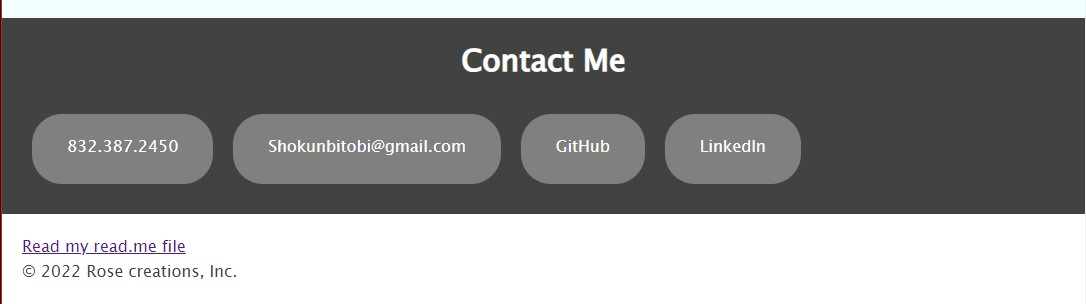
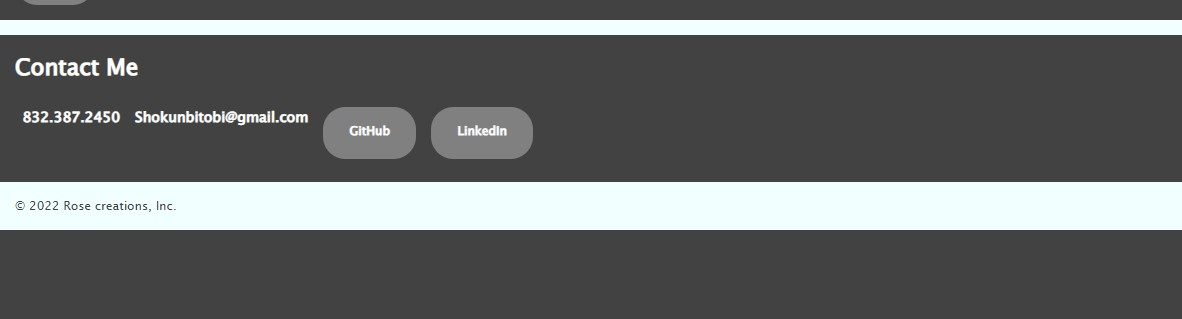
finished read me file and css

diff --git a/assets/CSS/style.css b/assets/CSS/style.css
@@ -10,9 +10,10 @@ font-family: 'Lucida Sans', 'Lucida Sans Regular', 'Lucida Grande', 'Lucida Sans
     --secondary: rgb(66, 66, 66);
     --tiertiary: grey;
     --fourth: white; 
+    --fifth: azure;
 }
 body {
-    background-color: azure;
+    background-color: var(--fifth);
     margin: 0;
 }
 /*header and nav style start here*/
@@ -20,7 +21,7 @@ header {
     display: flex;
     flex-grow:unset;
     background-color: rgb(70, 70, 70);
-    padding: 20px 15px;
+    padding: 20px 15px 15px 15px;
     justify-content: space-between;
     align-items: center;
     padding: 10px 50px;
@@ -38,7 +39,7 @@ nav ul li {
 
 li a button {
 font-size: 16px;
-font-weight: 500;
+font-weight: bold;
 color: var(--fourth);
 text-decoration: none;
 }
@@ -98,85 +99,42 @@ main {
     font-size: 40px;
     text-align: left;
 }
-#projects-me h2 {
-    margin-top: 0%;
-    margin-bottom: 20px;
-    font-size: 40px;
-    text-align: right;
-}
+
 /*style for images of the projects section*/
 #projects-me h2 {
 width: 100%;
+height: 100%;
 padding: 30px;
 display: block;
-
 }
 
-.p1 {
-    margin: auto;
-    display: flex;
-    flex-wrap: wrap;
-    flex-basis: 100%;
-    justify-content: center;
+.container1 {
+margin: 10px 10px 10px 10px;
+padding: 10px 10px 50px 10px;
+max-width: 100%;
+display: flex;
+flex-wrap: wrap;
+justify-content: center;
 }
+
 .p1 img {
-    border: 3px solid;
-    margin: 10px 10px 10px 10px;
-    padding: 10px 10px 10px 10px;
-    width: 800px;
-    height: 400px;
+border: 3px solid;
+margin: 10px 10px 10px 10px;
+padding: 10px 10px 10px 10px;
+width: 100%;
+height: 100%;
 }
-
 .child-one img {
-    width: 1000px;
-    height: 600px;
+width: 100%;
+height: 100%;
 }
 .child-two {
-
+    padding: 10px;
 }
-
-/* 
-.container {
-display: flex;
+.container2 {
+padding: 90px 30px 30px 30px;
 justify-content: center;
-flex-wrap: wrap;
-flex-direction: column;
-flex-grow: unset;
 }
-.card {
-flex: 4;
-background:black;
-width: 400px;
-height: 220px;
-margin: 5px;
-}
-.card1 {
-    flex: 8;
-    background:black;
-    width: 400px;
-    height: 100%;
-    margin: 5px;
-    justify-content:center;
-}
-.card-image3 {
-    background-image: url("/my-portfolio-html-css-java/Images/4.jpg");
-    background-size: cover;
-    height: 300px;
-    margin-bottom: 0px;
-    }
-.card-image1 {
-background-image: url("/my-portfolio-html-css-java/Images/2.jpg");
-background-size: cover;
-height: 180px;
-margin-bottom: 0px;
-}
-.card-image2 {
-    background-image: url("/my-portfolio-html-css-java/Images/3.jpg");
-    background-size: cover;
-    height: 180px;
-    margin-bottom: 0px;
-} */
-
 
 /*end style for the projects section*/
 #resume-me h2 {
@@ -189,7 +147,7 @@ margin-bottom: 0px;
     margin-top: 0%;
     margin-bottom: 20px;
     font-size: 30px;
-    text-align: center;
+    text-align: left;
 }
 #about-me, #projects-me, #contact-me {
     margin-bottom: 20px;
@@ -218,18 +176,16 @@ margin-bottom: 0px;
 }
 /*button style for resume and contact me*/
 #resume-me button {
-    padding: 20px 35px 25px;
+    padding: 20px 20px 20px;
     background-color: var(--tiertiary);
     border: 10px;
     border-radius: 30px;
     cursor: pointer;
     font-size: 16px;
-    font-size: 16px;
-    font-weight: 500;
+    font-weight: bolder;
     color: var(--fourth);
     text-decoration: none;
     display: flex;
-    flex: auto;
     }
 
 #contact-me button {
@@ -239,10 +195,21 @@ border: 10px;
 border-radius: 30px;
 cursor: pointer;
 font-size: 16px;
-font-size: 16px;
-font-weight: 500;
+font-weight: bold;
 color: var(--fourth);
 text-decoration: none;
+}
+
+.p1 button {
+    padding: 10px 10px 10px;
+    background-color: var(--tiertiary);
+    border: 10px;
+    border-radius: 30px;
+    cursor: pointer;
+    font-size: 16px;
+    font-weight: bold;
+    color: var(--fourth);
+    text-decoration: none;
 }
 /*end style for buttons*/
 
@@ -252,7 +219,7 @@ footer {
     margin-top: 20px;
     padding: 20px;
     font-family:'Gill Sans', 'Gill Sans MT', Calibri, 'Trebuchet MS', sans-serif;
-    background-color: var(--primary);
+    background-color: var(--fifth);
     color: var(--secondary);
     display: flex;
     flex-wrap: wrap;

diff --git a/index.html b/index.html
@@ -50,7 +50,26 @@
                  </p>
                 </article>
 
-    <section id="projects-me" class="p1">
+                <section id="projects-me" class="p1">
+                    <h2>Projects</h2>
+                    <div class="container1">
+                        <div class="child-one">
+                            <img src="./Images/4.jpg" alt="Gladiator">
+                            <a href="#INPROGRESS" target="_blank"><button>Gladiator</button></a>
+                        </div>
+                        <div class="container2">
+                            <div class="child-two">
+                                <img src="./Images/3.jpg" alt="Run Buddy">
+                                <a href="#INPROGRESS" target="_blank"><button>Run Buddy</button></a>
+                            </div> 
+                            <div class="child-two">
+                                <img src="./images/2.jpg" alt="Code Refractoring">
+                                <a href="https://github.com/ashokunb/Code-Refractoring-HTML-CSS" target="_blank"><button>Code Refractoring</button></a>
+                            </div>
+                        </div>
+                    </div>
+                </section>
+    <!--<section id="projects-me" class="p1">
         <h2>Projects</h2>
             <div class="child-one">
                 <img src="./Images/4.jpg" alt="Gladiator">
@@ -64,22 +83,8 @@
                 <img src="./images/2.jpg" alt="Code Refractoring">
                 <h3>Code Refractoring</h3>
             </div>
-        <!--<section class="container">
-            <div class="card1">
-                <div class="card-image3"></div>
-                <h3>Gladiator</h3>
-            </div>
-            <div class="card">
-                <div class="card-image1"></div>
-                <h3>Code Refractoring</h3>
-            </div>
-            <div class="card">
-                <div class="card-image2"></div>
-                <h3>Run Buddy</h3>
-            </div>
-        </section>-->
     </section>
-
+-->
     <article id="resume-me">
         <h2>Resume</h2>
             <a href="./Images/Resume 2021 - 3.pdf" target="_blank"><button>Click me</button></a>
@@ -90,10 +95,10 @@
                     
                         <ul>
                             <li>
-                                <button>832.387.2450</button></a>
+                                <h3>832.387.2450</H2>
                             </li>
                             <li>
-                                <Button>Shokunbitobi@gmail.com</Button></a>
+                                <h3>Shokunbitobi@gmail.com</H2>
                                 </li>
                             <li>
                                 <a href="https://github.com/ashokunb" target="_blank"><button>GitHub</button></a>
